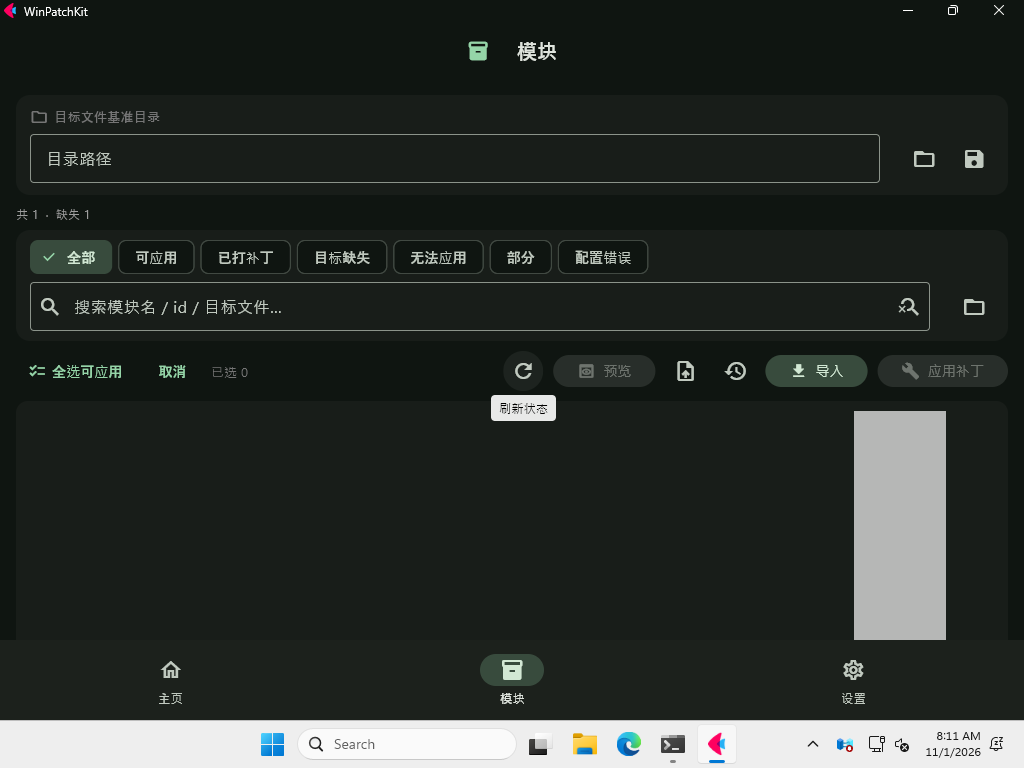
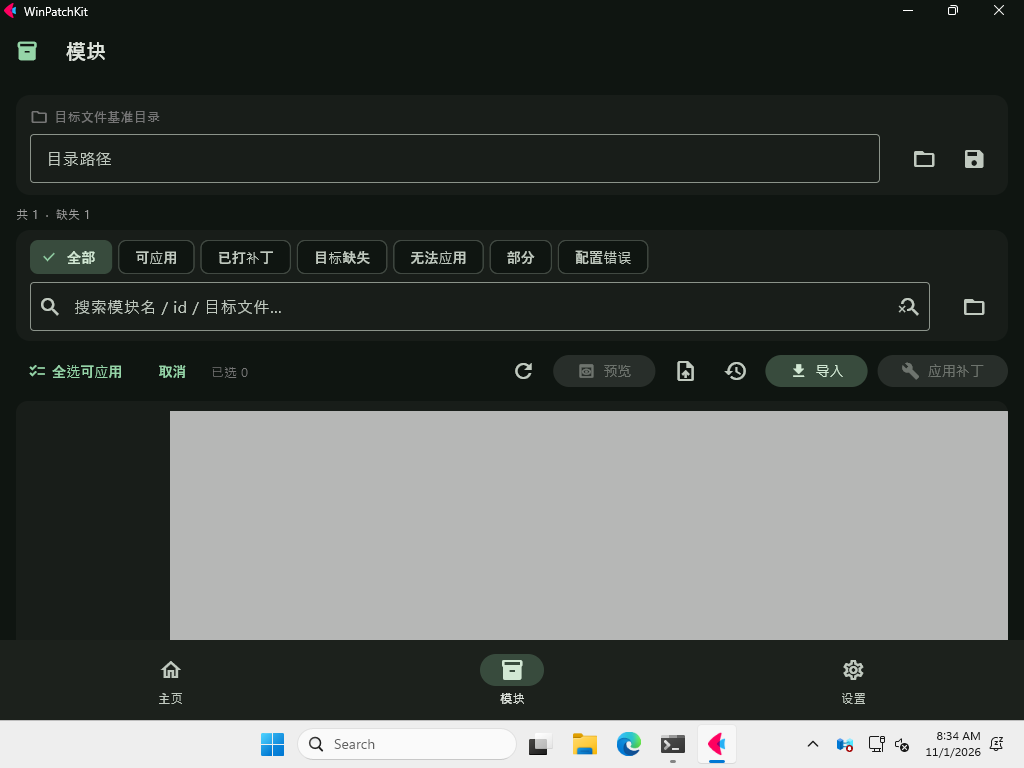
fix(module): 彻底移除 Container.alignment，修复模组页列表区白屏塌陷
根因（git diff 铁证 + 官方 SDK docstring）：c11e706(正常)→ecc18a2(白屏) 之间
module.py 零改动，唯一变量是 module_card 的 badge_box 加了 Container.alignment。
官方文档：alignment 非 None 时 Container 会贪婪撑满父约束；本版本 Flet 里即给
height 仍会污染 Row 布局，使卡片无限高、在 scroll body 里铺满整个可视区成白块。

修法：badge 本体恢复纯 hug；外层用定宽(92)容器 + Row.mainAxisAlignment=CENTER 居中。
Row 的 justifyContent 居中不贪婪，彻底避免 Container.alignment。全局复查已无残留。

刷新 3 张 CI 预览截图。

diff --git a/gui/widgets/module_card.py b/gui/widgets/module_card.py
@@ -48,12 +48,16 @@ def make_card(info, on_delete, on_detail):
         line2 = f"id={info.id}   ·   v{info.version or '-'}"
 
     checkbox = ft.Checkbox(value=False, disabled=bool(info.parse_error))
-    # badge_box 固定 92×30 + alignment=CENTER（有固定宽高才不贪婪），
-    # 让 hug 的 badge 在其中居中——长文案（如「目标缺失」）不再偏左。
-    # 注意：给无固定尺寸的 Container 加 alignment 会在 Row 里贪婪撑开（白屏），
-    # 故居中必须放在这个定宽的 badge_box 上，而非 badge 本身。
-    badge_box = ft.Container(content=status_badge("pending"),
-                             width=92, height=30, alignment="CENTER")
+    # badge 居中：badge 本体纯 hug；外面套一个定宽(92)容器，容器 content 用
+    # Row 的 mainAxisAlignment=CENTER 居中。
+    # 不用 Container.alignment——官方文档明确：alignment 非 None 时 Container 会
+    # 贪婪撑满父约束，在本版本 Flet 里即使给了 width/height 仍会污染 Row 布局
+    # 导致整块塌陷（白屏）。Row 的 justifyContent 居中则无此副作用。
+    badge_box = ft.Container(
+        content=ft.Row([status_badge("pending")],
+                       alignment=ft.MainAxisAlignment.CENTER,
+                       vertical_alignment=ft.CrossAxisAlignment.CENTER),
+        width=92)
     icon_box = ft.Container(content=status_icon("pending"), width=22)
     detail_text = ft.Text("检测中…", size=11, color=ft.Colors.GREY_500,
                           no_wrap=True, overflow=ft.TextOverflow.ELLIPSIS)
